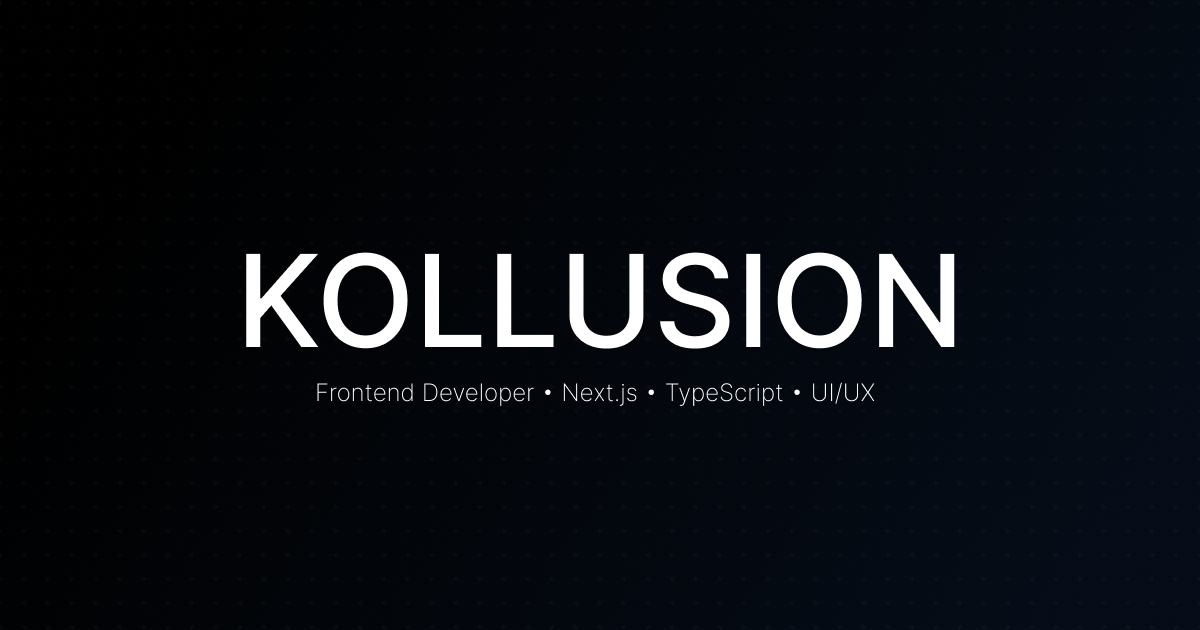
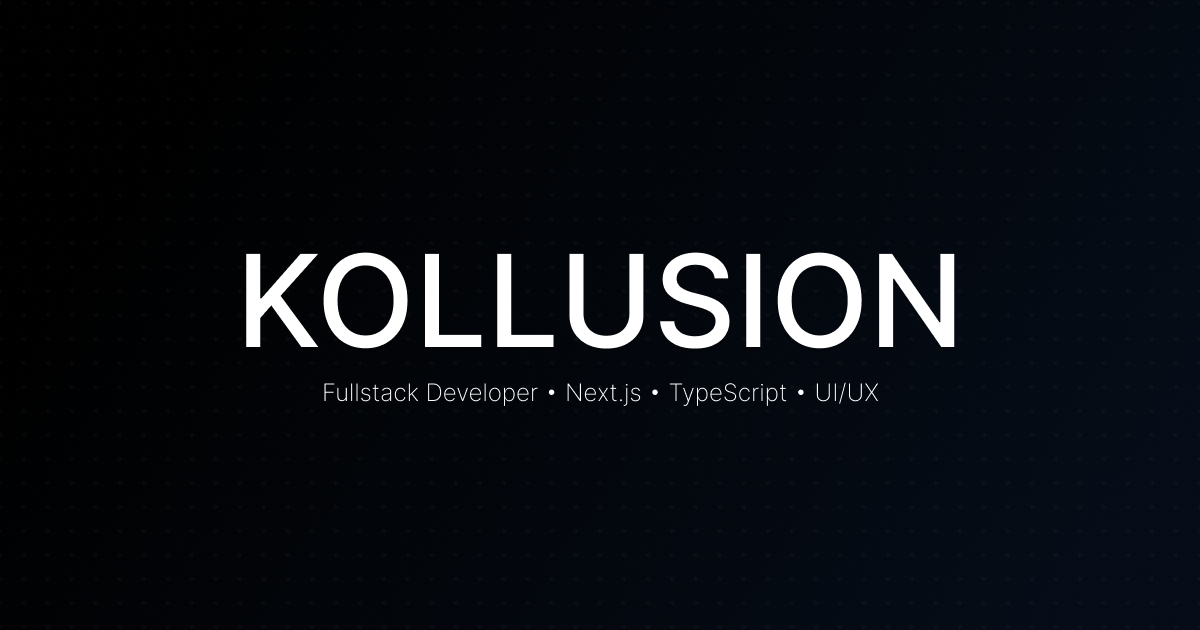
был фронтенлер - стал fullstack

Changed region(s): [[0.2467, 0.6032, 0.74, 0.6635]]

diff --git a/app/[locale]/layout.tsx b/app/[locale]/layout.tsx
@@ -22,12 +22,13 @@ const geistMono = Geist_Mono({
 
 export const metadata: Metadata = {
     title: {
-        default: "Kollusion — Frontend Developer & UI Engineer",
+        default: "Kollusion — Fullstack Developer",
         template: "%s | Kollusion",
     },
     description:
         "I build fast, responsive, and animated websites with Next.js, TypeScript, and modern UI. Portfolio of real projects with backend, payments, and SEO.",
     keywords: [
+        "fullstack developer",
         "frontend developer",
         "next.js developer",
         "react developer",
@@ -39,6 +40,7 @@ export const metadata: Metadata = {
         "freelance developer",
         "адаптивный сайт",
         "разработка сайтов",
+        "фуллстек разработчик",
         "фронтенд разработчик",
         "лендинг под заказ",
     ],
@@ -50,7 +52,7 @@ export const metadata: Metadata = {
         type: "website",
         locale: "en_US",
         url: "https://kollusion.vercel.app",
-        title: "Kollusion — Frontend Developer & UI Engineer",
+        title: "Kollusion — Fullstack Developer",
         description:
             "Portfolio of modern web apps built with Next.js, TypeScript, and Tailwind CSS. Fast, SEO-friendly, with animations and backend.",
         siteName: "Kollusion.dev",
@@ -59,14 +61,14 @@ export const metadata: Metadata = {
                 url: "https://kollusion.vercel.app/og-image.png",
                 width: 1200,
                 height: 630,
-                alt: "Kollusion — Portfolio of a frontend developer",
+                alt: "Kollusion — Portfolio of a fullstack developer",
             },
         ],
     },
 
     twitter: {
         card: "summary_large_image",
-        title: "Kollusion — Frontend Developer & UI Engineer",
+        title: "Kollusion — Fullstack Developer",
         description:
             "Portfolio of modern web apps built with Next.js, TypeScript, and Tailwind CSS.",
         images: ["https://kollusion.vercel.app/og-image.png"],
